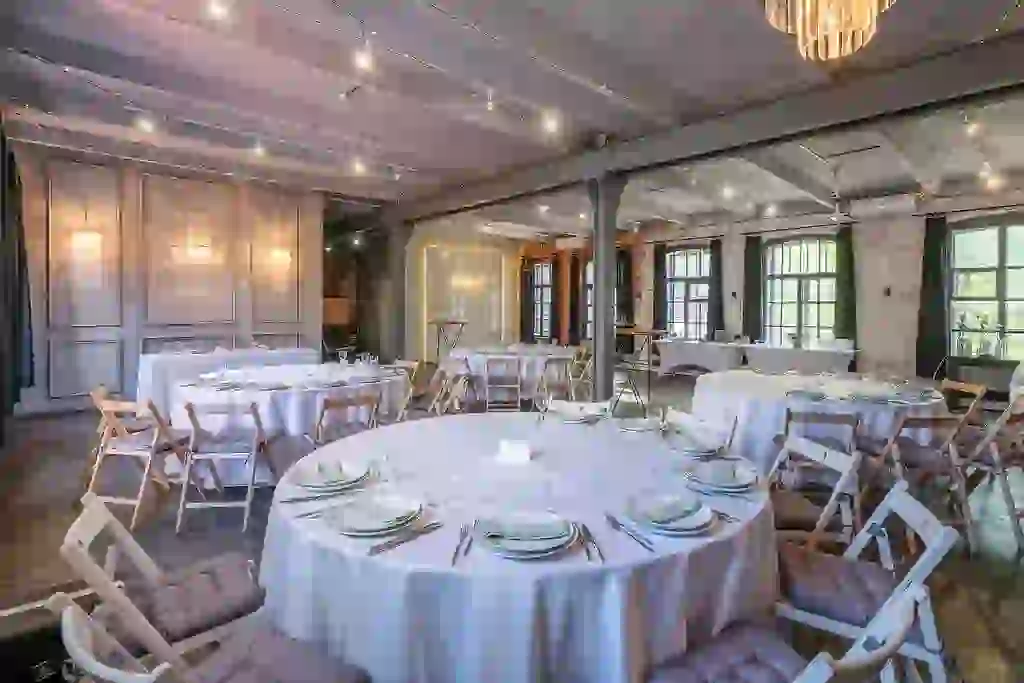
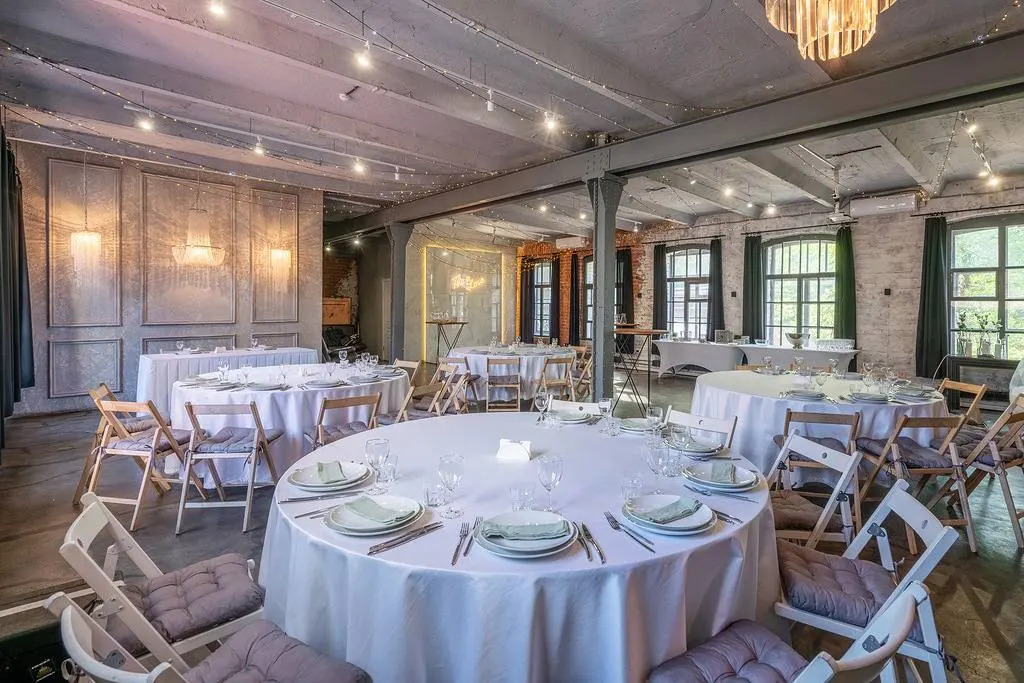
Фотографии: пересборка из оригиналов 3000x2000
Кодировщик canvas принимает качество по шкале 0-100, а не 0-1 — из-за этого
все кадры сжимались по максимуму (16 КБ на 1600 px). Исправлено на webp 78.
Исходники заменены с уменьшенных копий Tilda на оригиналы из папки «Лофт»,
добавлены живые кадры с мероприятий и свадебная сервировка 2560 px.

diff --git a/index.html b/index.html
@@ -13,13 +13,13 @@
 <meta property="og:title" content="SOLDOUT LOFT — события, которые собирают полный зал">
 <meta property="og:description" content="Индустриальное пространство 175 м² в Москве для частных, корпоративных и деловых событий.">
 <meta property="og:url" content="https://soldout-loft.vercel.app/">
-<meta property="og:image" content="https://soldout-loft.vercel.app/assets/photo/ev-02-1600.jpg">
+<meta property="og:image" content="https://soldout-loft.vercel.app/assets/photo/hall-day-2200.jpg">
 <meta property="og:image:width" content="1600">
 <meta property="og:image:height" content="1067">
 <meta name="twitter:card" content="summary_large_image">
 <meta name="twitter:title" content="SOLDOUT LOFT — события, которые собирают полный зал">
 <meta name="twitter:description" content="Индустриальное пространство 175 м² в Москве для частных, корпоративных и деловых событий.">
-<meta name="twitter:image" content="https://soldout-loft.vercel.app/assets/photo/ev-02-1600.jpg">
+<meta name="twitter:image" content="https://soldout-loft.vercel.app/assets/photo/hall-day-2200.jpg">
 
 <link rel="icon" href="/favicon.svg" type="image/svg+xml">
 <link rel="apple-touch-icon" href="/icon-180.png">
@@ -29,8 +29,8 @@
 <link rel="preconnect" href="https://fonts.googleapis.com">
 <link rel="preconnect" href="https://fonts.gstatic.com" crossorigin>
 <link rel="preload" as="image" fetchpriority="high"
-      href="assets/photo/ev-02-1600.webp"
-      imagesrcset="assets/photo/ev-02-1024.webp 1024w, assets/photo/ev-02-1600.webp 1600w"
+      href="assets/photo/hall-day-1600.webp"
+      imagesrcset="assets/photo/hall-day-1024.webp 1024w, assets/photo/hall-day-1600.webp 1600w, assets/photo/hall-day-2200.webp 2200w"
       imagesizes="100vw">
 <link href="https://fonts.googleapis.com/css2?family=Jost:wght@300;400;500&display=swap" rel="stylesheet">
 <link rel="stylesheet" href="assets/css/site.css">
@@ -48,7 +48,7 @@
   "name":"SOLDOUT LOFT",
   "description":"Индустриальное пространство 175 м² для частных, корпоративных и деловых событий в Москве.",
   "url":"https://soldout-loft.vercel.app/",
-  "image":["https://soldout-loft.vercel.app/assets/photo/ev-02-1600.jpg"],
+  "image":["https://soldout-loft.vercel.app/assets/photo/hall-day-2200.jpg"],
   "telephone":"+7-985-362-45-58",
   "email":"soldout-loft@yandex.ru",
   "maximumAttendeeCapacity":100,
@@ -125,8 +125,8 @@
   <div class="hero__media">
     <picture>
       <source type="image/webp" sizes="100vw"
-              srcset="assets/photo/ev-02-640.webp 640w, assets/photo/ev-02-1024.webp 1024w, assets/photo/ev-02-1600.webp 1600w">
-      <img src="assets/photo/ev-02-1600.jpg" width="1680" height="1120" fetchpriority="high" decoding="async"
+              srcset="assets/photo/hall-day-640.webp 640w, assets/photo/hall-day-1024.webp 1024w, assets/photo/hall-day-1600.webp 1600w, assets/photo/hall-day-2200.webp 2200w">
+      <img src="assets/photo/hall-day-2200.jpg" width="3000" height="2000" fetchpriority="high" decoding="async"
            alt="Зал SOLDOUT LOFT: кирпичные стены, высокие арочные окна, бетонный пол и гирлянды под потолком">
     </picture>
   </div>
@@ -174,8 +174,8 @@
     <figure class="story__big" data-rv-img>
       <picture>
         <source type="image/webp" sizes="(max-width:1180px) 100vw, 62vw"
-                srcset="assets/photo/loft-02-640.webp 640w, assets/photo/loft-02-1024.webp 1024w">
-        <img src="assets/photo/loft-02-1024.jpg" width="1500" height="1000" loading="lazy" decoding="async"
+                srcset="assets/photo/lounge-640.webp 640w, assets/photo/lounge-1024.webp 1024w, assets/photo/lounge-1600.webp 1600w">
+        <img src="assets/photo/lounge-1024.jpg" width="3000" height="2000" loading="lazy" decoding="async"
              alt="Зона отдыха у высоких окон: кожаные диваны, кирпичная кладка и дневной свет">
       </picture>
     </figure>
@@ -183,16 +183,16 @@
       <figure data-rv-img>
         <picture>
           <source type="image/webp" sizes="(max-width:1180px) 100vw, 30vw"
-                  srcset="assets/photo/loft-04-640.webp 640w, assets/photo/loft-04-1024.webp 1024w">
-          <img src="assets/photo/loft-04-1024.jpg" width="1500" height="1000" loading="lazy" decoding="async"
+                  srcset="assets/photo/window-640.webp 640w, assets/photo/window-1024.webp 1024w, assets/photo/window-1600.webp 1600w">
+          <img src="assets/photo/window-1024.jpg" width="3000" height="2000" loading="lazy" decoding="async"
                alt="Кирпичная стена с высоким окном и подвесной люстрой">
         </picture>
       </figure>
       <figure data-rv-img>
         <picture>
           <source type="image/webp" sizes="(max-width:1180px) 100vw, 30vw"
-                  srcset="assets/photo/loft-01-640.webp 640w, assets/photo/loft-01-1024.webp 1024w">
-          <img src="assets/photo/loft-01-1024.jpg" width="1500" height="1000" loading="lazy" decoding="async"
+                  srcset="assets/photo/arch-640.webp 640w, assets/photo/arch-1024.webp 1024w, assets/photo/arch-1600.webp 1600w">
+          <img src="assets/photo/arch-1024.jpg" width="3000" height="2000" loading="lazy" decoding="async"
                alt="Арочный проход между зонами лофта">
         </picture>
       </figure>
@@ -232,8 +232,8 @@
         <figure data-rv-img>
           <picture>
             <source type="image/webp" sizes="(max-width:560px) 82vw, 660px"
-                    srcset="assets/photo/ev-02-640.webp 640w, assets/photo/ev-02-1024.webp 1024w">
-            <img src="assets/photo/ev-02-1024.jpg" width="1680" height="1120" loading="lazy" decoding="async"
+                    srcset="assets/photo/hall-day-640.webp 640w, assets/photo/hall-day-1024.webp 1024w, assets/photo/hall-day-1600.webp 1600w">
+            <img src="assets/photo/hall-day-1024.jpg" width="3000" height="2000" loading="lazy" decoding="async"
                  alt="Пустой зал лофта при дневном свете">
           </picture>
         </figure>
@@ -256,8 +256,8 @@
         <figure data-rv-img>
           <picture>
             <source type="image/webp" sizes="(max-width:560px) 82vw, 660px"
-                    srcset="assets/photo/hall-01-640.webp 640w, assets/photo/hall-01-1024.webp 1024w">
-            <img src="assets/photo/hall-01-1024.jpg" width="1680" height="1120" loading="lazy" decoding="async"
+                    srcset="assets/photo/party-640.webp 640w, assets/photo/party-1024.webp 1024w, assets/photo/party-1600.webp 1600w">
+            <img src="assets/photo/party-1024.jpg" width="2560" height="1707" loading="lazy" decoding="async"
                  alt="Вечеринка в лофте: серебряный фон, диско-шары и конфетти">
           </picture>
         </figure>
@@ -268,8 +268,8 @@
         <figure data-rv-img>
           <picture>
             <source type="image/webp" sizes="(max-width:560px) 82vw, 660px"
-                    srcset="assets/photo/ev-03-640.webp 640w, assets/photo/ev-03-1024.webp 1024w">
-            <img src="assets/photo/ev-03-1024.jpg" width="1680" height="1120" loading="lazy" decoding="async"
+                    srcset="assets/photo/theatre-640.webp 640w, assets/photo/theatre-1024.webp 1024w, assets/photo/theatre-1600.webp 1600w">
+            <img src="assets/photo/theatre-1024.jpg" width="3000" height="2000" loading="lazy" decoding="async"
                  alt="Театральная рассадка: ряды стульев перед экраном">
           </picture>
         </figure>
@@ -280,8 +280,8 @@
         <figure data-rv-img>
           <picture>
             <source type="image/webp" sizes="(max-width:560px) 82vw, 660px"
-                    srcset="assets/photo/loft-05-640.webp 640w, assets/photo/loft-05-1024.webp 1024w">
-            <img src="assets/photo/loft-05-1024.jpg" width="1500" height="1000" loading="lazy" decoding="async"
+                    srcset="assets/photo/screen-640.webp 640w, assets/photo/screen-1024.webp 1024w, assets/photo/screen-1600.webp 1600w">
+            <img src="assets/photo/screen-1024.jpg" width="3000" height="2000" loading="lazy" decoding="async"
                  alt="Экран три метра и звуковое оборудование для презентации">
           </picture>
         </figure>
@@ -315,8 +315,8 @@
       <div class="fmt__pic" data-rv-img>
         <picture>
           <source type="image/webp" sizes="(max-width:1180px) 100vw, 30vw"
-                  srcset="assets/photo/hall-01-640.webp 640w, assets/photo/hall-01-1024.webp 1024w">
-          <img src="assets/photo/hall-01-1024.jpg" width="1680" height="1120" loading="lazy" decoding="async"
+                  srcset="assets/photo/party-640.webp 640w, assets/photo/party-1024.webp 1024w, assets/photo/party-1600.webp 1600w">
+          <img src="assets/photo/party-1024.jpg" width="2560" height="1707" loading="lazy" decoding="async"
                alt="Корпоратив в лофте: гости у серебряной фотозоны">
         </picture>
       </div>
@@ -333,9 +333,9 @@
       <div class="fmt__pic" data-rv-img>
         <picture>
           <source type="image/webp" sizes="(max-width:1180px) 100vw, 30vw"
-                  srcset="assets/photo/banquet-640.webp 640w, assets/photo/banquet-1024.webp 1024w">
-          <img src="assets/photo/banquet-1024.jpg" width="1024" height="683" loading="lazy" decoding="async"
-               alt="Свадебный банкет: круглые столы и деревянные стулья">
+                  srcset="assets/photo/wedding-640.webp 640w, assets/photo/wedding-1024.webp 1024w, assets/photo/wedding-1600.webp 1600w">
+          <img src="assets/photo/wedding-1024.jpg" width="2560" height="1707" loading="lazy" decoding="async"
+               alt="Свадебная сервировка: длинный стол с цветами в зале лофта">
         </picture>
       </div>
     </article>
@@ -351,8 +351,8 @@
       <div class="fmt__pic" data-rv-img>
         <picture>
           <source type="image/webp" sizes="(max-width:1180px) 100vw, 30vw"
-                  srcset="assets/photo/ev-03-640.webp 640w, assets/photo/ev-03-1024.webp 1024w">
-          <img src="assets/photo/ev-03-1024.jpg" width="1680" height="1120" loading="lazy" decoding="async"
+                  srcset="assets/photo/theatre-640.webp 640w, assets/photo/theatre-1024.webp 1024w, assets/photo/theatre-1600.webp 1600w">
+          <img src="assets/photo/theatre-1024.jpg" width="3000" height="2000" loading="lazy" decoding="async"
                alt="Зал в театральной рассадке перед экраном">
         </picture>
       </div>
@@ -369,8 +369,8 @@
       <div class="fmt__pic" data-rv-img>
         <picture>
           <source type="image/webp" sizes="(max-width:1180px) 100vw, 30vw"
-                  srcset="assets/photo/loft-03-640.webp 640w, assets/photo/loft-03-1024.webp 1024w">
-          <img src="assets/photo/loft-03-1024.jpg" width="1500" height="1000" loading="lazy" decoding="async"
+                  srcset="assets/photo/cocktail-640.webp 640w, assets/photo/cocktail-1024.webp 1024w, assets/photo/cocktail-1600.webp 1600w">
+          <img src="assets/photo/cocktail-1024.jpg" width="3000" height="2000" loading="lazy" decoding="async"
                alt="Коктейльные столы у панельной стены при дневном свете">
         </picture>
       </div>
@@ -392,8 +392,8 @@
     <figure class="kit__sticky" data-rv-img>
       <picture>
         <source type="image/webp" sizes="(max-width:1180px) 100vw, 38vw"
-                srcset="assets/photo/ev-01-640.webp 640w, assets/photo/ev-01-1024.webp 1024w">
-        <img src="assets/photo/ev-01-1024.jpg" width="1680" height="1120" loading="lazy" decoding="async"
+                srcset="assets/photo/dressing-640.webp 640w, assets/photo/dressing-1024.webp 1024w, assets/photo/dressing-1600.webp 1600w">
+        <img src="assets/photo/dressing-1024.jpg" width="3000" height="2000" loading="lazy" decoding="async"
              alt="Гримерная лофта: шесть мест с зеркалами и подсветкой">
       </picture>
     </figure>
@@ -522,15 +522,15 @@
   <div class="grid" id="grid">
     <figure class="g-8 r-169" data-rv-img>
       <picture><source type="image/webp" sizes="66vw"
-        srcset="assets/photo/ev-02-640.webp 640w, assets/photo/ev-02-1024.webp 1024w, assets/photo/ev-02-1600.webp 1600w">
-        <img src="assets/photo/ev-02-1024.jpg" width="1680" height="1120" loading="lazy" decoding="async"
+        srcset="assets/photo/hall-day-640.webp 640w, assets/photo/hall-day-1024.webp 1024w, assets/photo/hall-day-1600.webp 1600w, assets/photo/hall-day-2200.webp 2200w">
+        <img src="assets/photo/hall-day-1024.jpg" width="3000" height="2000" loading="lazy" decoding="async"
              alt="Зал лофта днём: дневной свет, кирпич и гирлянды"></picture>
       <figcaption>Пространство · зал днём</figcaption>
     </figure>
     <figure class="g-4 r-34" data-rv-img>
       <picture><source type="image/webp" sizes="33vw"
-        srcset="assets/photo/ev-01-640.webp 640w, assets/photo/ev-01-1024.webp 1024w">
-        <img src="assets/photo/ev-01-1024.jpg" width="1680" height="1120" loading="lazy" decoding="async"
+        srcset="assets/photo/dressing-640.webp 640w, assets/photo/dressing-1024.webp 1024w, assets/photo/dressing-1600.webp 1600w">
+        <img src="assets/photo/dressing-1024.jpg" width="3000" height="2000" loading="lazy" decoding="async"
              alt="Гримерная с зеркалами и подсветкой"></picture>
       <figcaption>Пространство · гримерная</figcaption>
     </figure>
@@ -544,44 +544,44 @@
     </figure>
     <figure class="g-4 r-43" data-rv-img>
       <picture><source type="image/webp" sizes="33vw"
-        srcset="assets/photo/hall-01-640.webp 640w, assets/photo/hall-01-1024.webp 1024w">
-        <img src="assets/photo/hall-01-1024.jpg" width="1680" height="1120" loading="lazy" decoding="async"
+        srcset="assets/photo/party-640.webp 640w, assets/photo/party-1024.webp 1024w, assets/photo/party-1600.webp 1600w">
+        <img src="assets/photo/party-1024.jpg" width="2560" height="1707" loading="lazy" decoding="async"
              alt="Корпоратив: гости у серебряной фотозоны"></picture>
       <figcaption>Корпоративы · фотозона</figcaption>
     </figure>
     <figure class="g-4 r-43" data-rv-img>
       <picture><source type="image/webp" sizes="33vw"
-        srcset="assets/photo/ev-03-640.webp 640w, assets/photo/ev-03-1024.webp 1024w">
-        <img src="assets/photo/ev-03-1024.jpg" width="1680" height="1120" loading="lazy" decoding="async"
+        srcset="assets/photo/theatre-640.webp 640w, assets/photo/theatre-1024.webp 1024w, assets/photo/theatre-1600.webp 1600w">
+        <img src="assets/photo/theatre-1024.jpg" width="3000" height="2000" loading="lazy" decoding="async"
              alt="Театральная рассадка перед экраном"></picture>
       <figcaption>Деловые мероприятия · театр</figcaption>
     </figure>
 
     <figure class="g-3 r-11" data-rv-img>
       <picture><source type="image/webp" sizes="25vw"
-        srcset="assets/photo/loft-04-640.webp 640w, assets/photo/loft-04-1024.webp 1024w">
-        <img src="assets/photo/loft-04-1024.jpg" width="1500" height="1000" loading="lazy" decoding="async"
+        srcset="assets/photo/window-640.webp 640w, assets/photo/window-1024.webp 1024w, assets/photo/window-1600.webp 1600w">
+        <img src="assets/photo/window-1024.jpg" width="3000" height="2000" loading="lazy" decoding="async"
              alt="Кирпичная стена с высоким окном и люстрой"></picture>
       <figcaption>Пространство · свет</figcaption>
     </figure>
     <figure class="g-3 r-11" data-rv-img>
       <picture><source type="image/webp" sizes="25vw"
-        srcset="assets/photo/loft-01-640.webp 640w, assets/photo/loft-01-1024.webp 1024w">
-        <img src="assets/photo/loft-01-1024.jpg" width="1500" height="1000" loading="lazy" decoding="async"
+        srcset="assets/photo/arch-640.webp 640w, assets/photo/arch-1024.webp 1024w, assets/photo/arch-1600.webp 1600w">
+        <img src="assets/photo/arch-1024.jpg" width="3000" height="2000" loading="lazy" decoding="async"
              alt="Арочный проход между зонами лофта"></picture>
       <figcaption>Пространство · арка</figcaption>
     </figure>
     <figure class="g-3 r-11" data-rv-img>
       <picture><source type="image/webp" sizes="25vw"
-        srcset="assets/photo/loft-05-640.webp 640w, assets/photo/loft-05-1024.webp 1024w">
-        <img src="assets/photo/loft-05-1024.jpg" width="1500" height="1000" loading="lazy" decoding="async"
+        srcset="assets/photo/screen-640.webp 640w, assets/photo/screen-1024.webp 1024w, assets/photo/screen-1600.webp 1600w">
+        <img src="assets/photo/screen-1024.jpg" width="3000" height="2000" loading="lazy" decoding="async"
              alt="Экран и звуковое оборудование"></picture>
       <figcaption>Съёмки и презентации · экран</figcaption>
     </figure>
     <figure class="g-3 r-11" data-rv-img>
       <picture><source type="image/webp" sizes="25vw"
-        srcset="assets/photo/ev-04-640.webp 640w, assets/photo/ev-04-1024.webp 1024w">
-        <img src="assets/photo/ev-04-1024.jpg" width="1680" height="1120" loading="lazy" decoding="async"
+        srcset="assets/photo/entrance-640.webp 640w, assets/photo/entrance-1024.webp 1024w, assets/photo/entrance-1600.webp 1600w">
+        <img src="assets/photo/entrance-1024.jpg" width="3000" height="2000" loading="lazy" decoding="async"
              alt="Входная зона лофта с гардеробом"></picture>
       <figcaption>Пространство · вход</figcaption>
     </figure>
